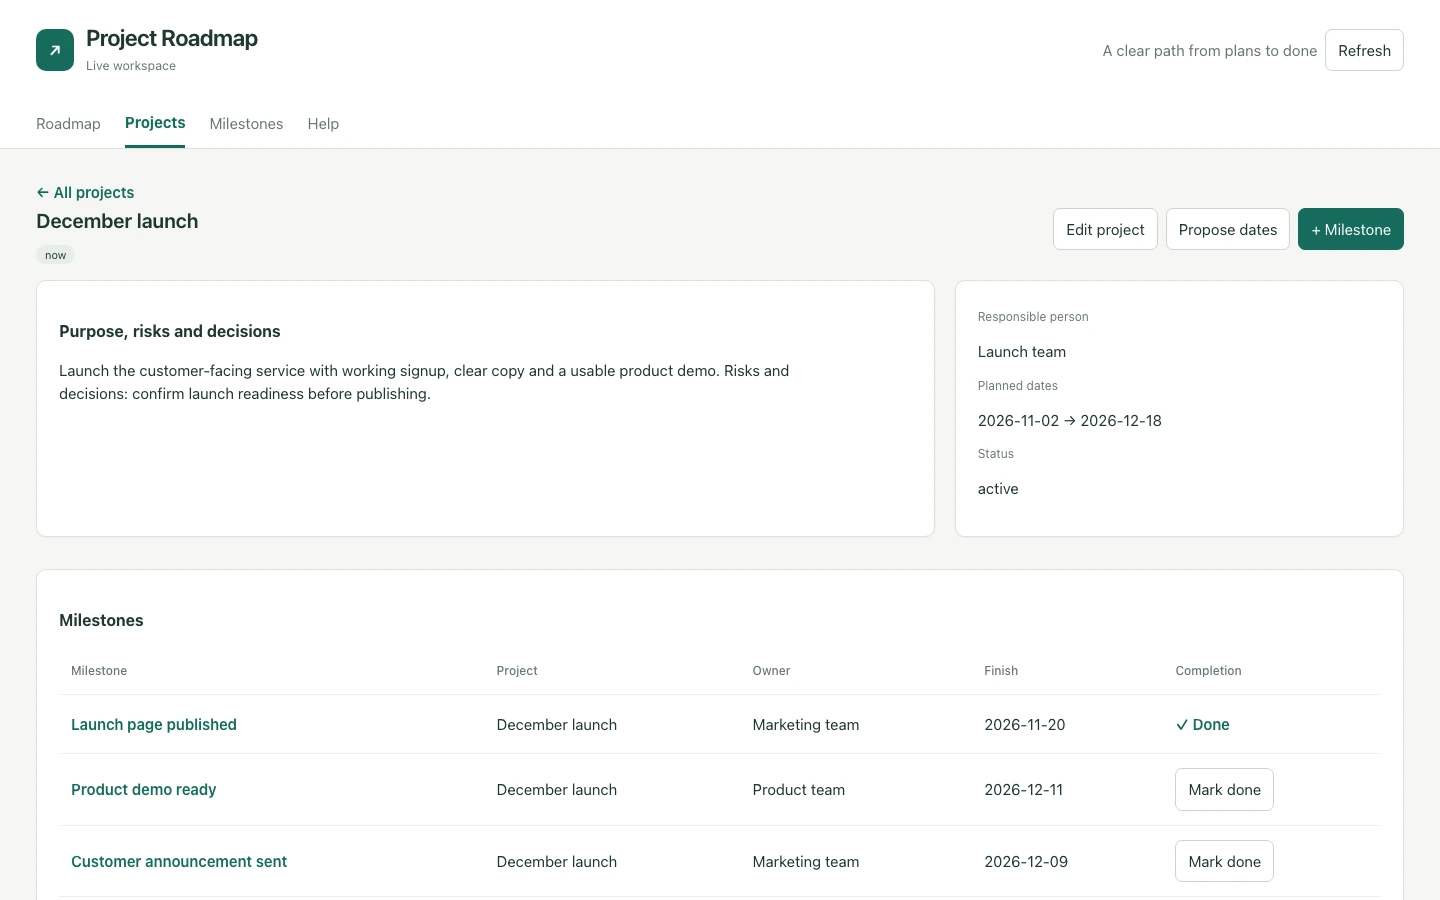
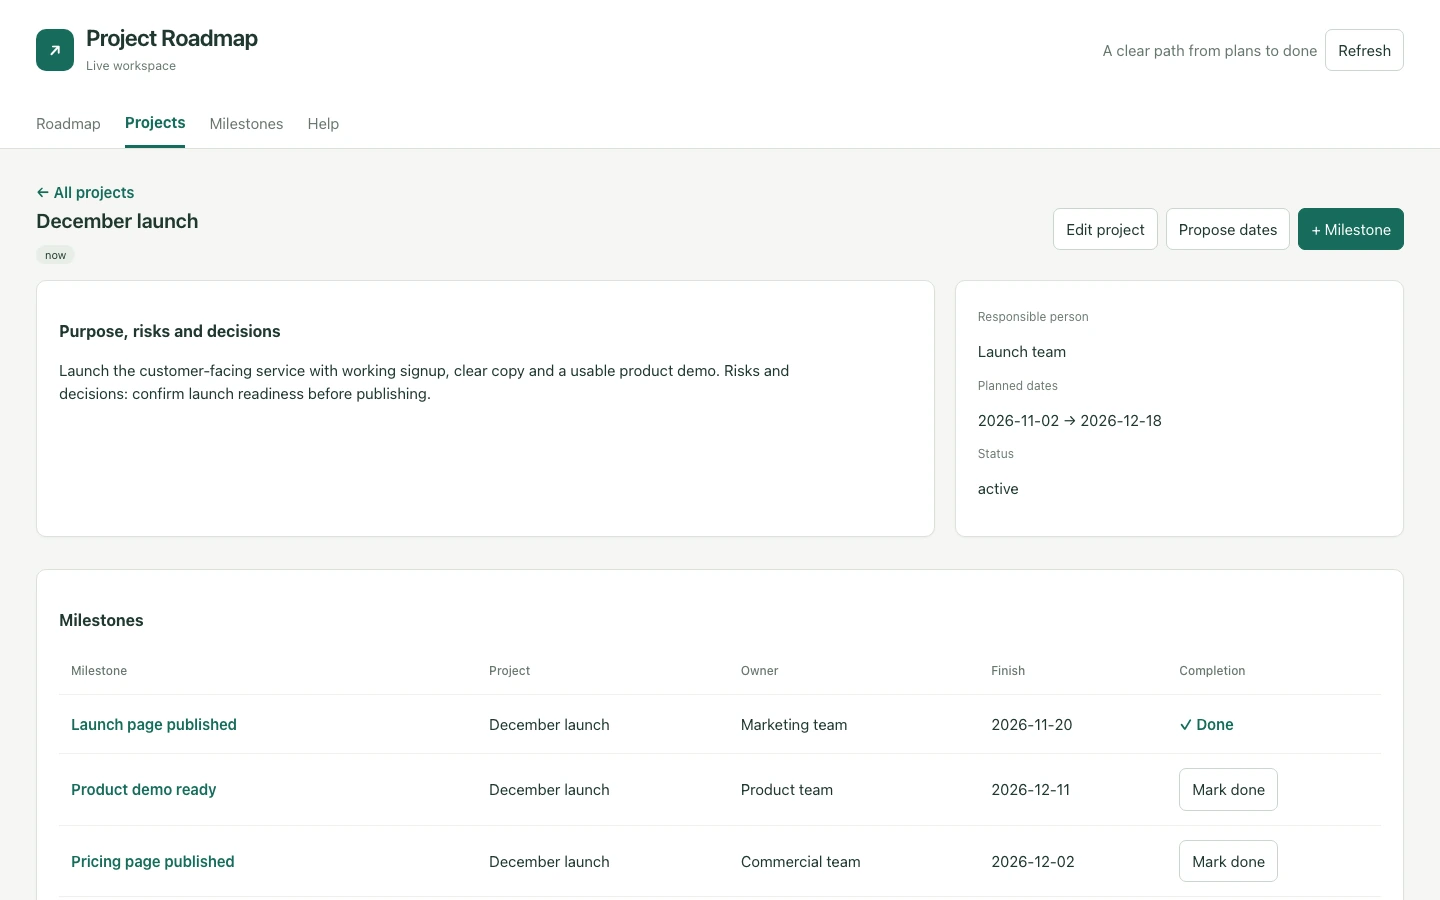
fix(project-roadmap): restore scrolling and clarify planning horizons

diff --git a/templates/busa-project-roadmap/content/busa-project-roadmap-app/app/js/app.js b/templates/busa-project-roadmap/content/busa-project-roadmap-app/app/js/app.js
@@ -29,6 +29,10 @@ const state = {
   busy: false,
 };
 const title = (r) => r.fields.title || "Untitled";
+const chronological = (a, b) =>
+  (a.fields["start-date"] || "9999-12-31").localeCompare(
+    b.fields["start-date"] || "9999-12-31",
+  ) || title(a).localeCompare(title(b));
 const projectOf = (r) =>
   state.projects.find((p) => refs(r.fields.project).includes(p.id));
 const issues = () => [
@@ -43,12 +47,12 @@ async function load() {
     ["projects", "milestones"].map((key) => provider.page(key)),
   );
   ["projects", "milestones"].forEach((key, i) => {
-    state[key] = pages[i].records;
+    state[key] = pages[i].records.toSorted(chronological);
     state.cursors[key] = pages[i].nextCursor;
   });
 }
 function shell(content) {
-  root.innerHTML = `<header><div class="top"><div class="brand"><span class="mark" aria-hidden="true">↗</span><div><h1>Project Roadmap</h1><small>${e(provider.name)}</small></div></div><div class="actions"><span class="muted">A clear path from plans to done</span><button data-action="refresh" ${state.busy ? "disabled" : ""}>Refresh</button></div></div><nav aria-label="Sections">${["roadmap", "projects", "milestones", "help"].map((screen) => `<button data-screen="${screen}" class="${state.screen === screen ? "active" : ""}" ${state.screen === screen ? 'aria-current="page"' : ""}>${screen[0].toUpperCase() + screen.slice(1)}</button>`).join("")}</nav></header><main>${content}<p class="budget">${state.projects.length} projects · ${state.milestones.length} milestones loaded. Filters and dependency checks apply to loaded records.</p>${Object.entries(
+  root.innerHTML = `<header><div class="top"><div class="brand"><span class="mark" aria-hidden="true">↗</span><div><h1>Project Roadmap</h1><small>${e(provider.name)}</small></div></div><div class="actions"><span class="muted">A clear path from plans to done</span><button data-action="refresh" ${state.busy ? "disabled" : ""}>Refresh</button></div></div><nav aria-label="Sections">${["roadmap", "projects", "milestones", "help"].map((screen) => `<button data-screen="${screen}" class="${state.screen === screen ? "active" : ""}" ${state.screen === screen ? 'aria-current="page"' : ""}>${screen[0].toUpperCase() + screen.slice(1)}</button>`).join("")}</nav></header><main>${content}<p class="budget">${state.projects.length} projects · ${state.milestones.length} milestones loaded.</p>${Object.entries(
     state.cursors,
   )
     .filter(([, cursor]) => cursor)
@@ -92,10 +96,7 @@ function roadmap() {
     );
   const conflicts = issues().filter((i) => i.kind === "conflict");
   return (
-    intro(
-      "See what’s coming",
-      "Projects and milestones, across weeks and quarters.",
-    ) +
+    intro("Roadmap", "Projects and milestones, across weeks and quarters.") +
     `<div class="toolbar"><div class="actions"><label for="lane" class="sr-only">Roadmap horizon</label><select id="lane"><option value="all">Now, Next & Later</option>${["now", "next", "later"].map((l) => `<option ${state.lane === l ? "selected" : ""} value="${l}">${l[0].toUpperCase() + l.slice(1)}</option>`).join("")}</select></div><div class="actions"><button data-shift="-84" aria-label="Previous twelve weeks">←</button><button data-action="today">Today</button><button data-shift="84" aria-label="Next twelve weeks">→</button><small>${e(first)} — ${addDays(first, 83)}</small></div></div>${conflicts.length ? `<div class="warning"><b>${conflicts.length} dependency conflict${conflicts.length === 1 ? "" : "s"} need attention.</b> Review the impact before moving dates. <button class="text-button" data-action="conflicts">View conflicts →</button></div>` : ""}<div class="timeline"><div class="timeline-inner"><div class="timeline-row"><div class="row-label"><b>Projects & milestones</b></div><div class="week-grid">${columns.map((w) => `<span><b>${e(w.quarter)}</b>${e(w.label)}<br>${new Intl.DateTimeFormat("en", { month: "short", day: "numeric", timeZone: "UTC" }).format(date(w.day))}</span>`).join("")}</div></div>${
       visible
         .map(
@@ -139,7 +140,16 @@ function projectDetail() {
   return `<button class="text-button" data-action="back">← All projects</button><div class="intro"><div><h2>${e(title(p))}</h2><span class="lane">${e(p.fields.lane || "later")}</span></div><div class="actions"><button data-edit="${e(p.id)}" data-kind="projects">Edit project</button><button data-schedule="${e(p.id)}" data-kind="projects">Propose dates</button><button class="primary" data-new="milestones">+ Milestone</button></div></div><div class="project-detail"><div class="card"><h3>Purpose, risks and decisions</h3><p class="definition">${e(p.fields.brief || "Add the purpose of this project and any important risks or decisions.")}</p></div><div class="card"><p class="detail-label">Responsible person</p><p>${e(p.fields.owner || "Unassigned")}</p><p class="detail-label">Planned dates</p><p>${e(p.fields["start-date"] || "Not set")} → ${e(p.fields["end-date"] || "Not set")}</p><p class="detail-label">Status</p><p>${e(p.fields.status || "planned")}</p></div></div><div class="card"><h3>Milestones</h3>${milestoneTable(state.milestones.filter((m) => refs(m.fields.project).includes(p.id)))}</div>`;
 }
 function help() {
-  return `<div class="card help"><h2>A small model for clear plans</h2><h3>Projects</h3><p>An overall effort, such as a launch. The brief explains its purpose, important risks and decisions. Use Now, Next or Later to show priority; dates show the planned calendar window.</p><h3>Milestones</h3><p>A concrete outcome within a project. “What done means” describes the finished result. The owner is responsible for progress; anyone with edit access can mark it Done. There is no acceptance step. If work needs revisiting, reopen it by clearing Done in Edit milestone.</p><h3>Dependencies and date proposals</h3><p>A dependency must finish before the dependent work starts. Amber bars flag conflicts among loaded records. Proposed dates preserve the task’s duration and await review in Busa; they do not move the live schedule immediately.</p><h3>Access and loading</h3><p>The app uses your existing Busa permissions. A normal edit is saved or submitted for review according to your access. Each load reads at most 50 records per table. Load more to include additional records in filters and dependency checks.</p></div>`;
+  return `<div class="card help"><h2>Using Project Roadmap</h2>
+  <h3>Projects</h3><p>A project is an overall effort, such as a launch. Its brief explains the purpose, important risks and decisions. Milestones describe the concrete outcomes within it.</p>
+  <h3>Now — current work</h3><p>Use Now for projects the team is actively working on in the current planning cycle. Keep this group small enough that the people assigned can make progress. <b>Example:</b> December launch is Now while the team is preparing the launch.</p>
+  <h3>Next — the next agreed priorities</h3><p>Use Next for projects you intend to start when the team has capacity and the prerequisites are ready. The work is a priority, but it is not the team's current focus. <b>Example:</b> Customer portal is Next while launch preparation takes priority. Projects can overlap when there is enough capacity.</p>
+  <h3>Later — future work without a current commitment</h3><p>Use Later for work worth keeping on the roadmap that the team has not committed to starting soon. Dates can stay empty until the plan is clearer. <b>Example:</b> Operations refresh is Later while its priority and timing are still being decided.</p>
+  <h3>When to move a project</h3><p>Move Next to Now when the team is ready to begin. When current work finishes, mark the project Done and choose the next ready project. Move work to Later if it loses priority. Review these choices together when you review the roadmap.</p>
+  <p><b>Priority and dates are separate.</b> Now / Next / Later describes focus and planning confidence; start and finish dates place the work in specific weeks and quarters. The labels have no fixed number of weeks. Changing a label does not change dates or move a timeline bar.</p>
+  <h3>Milestones</h3><p>A milestone is a concrete outcome within a project. “What done means” describes the finished result. The owner is responsible for progress; anyone with edit access can mark it Done. There is no acceptance step. Reopen it by clearing Done in Edit milestone if work needs revisiting.</p>
+  <h3>Dependencies and date proposals</h3><p>A dependency must finish before the dependent work starts. Amber bars flag conflicts among loaded records. Suggested dates preserve the work's duration. Submit a date proposal for review in Busa; the current schedule stays in place until approved.</p>
+  <h3>Access and loading</h3><p>The app uses your existing Busa permissions. A normal edit is saved or submitted for review according to your access. Each load reads at most 50 records per table. Use Load more to include additional records.</p></div>`;
 }
 function showDialog(html) {
   dialog.innerHTML = html;

diff --git a/templates/busa-project-roadmap/content/busa-project-roadmap-app/app/js/demo-data.js b/templates/busa-project-roadmap/content/busa-project-roadmap-app/app/js/demo-data.js
@@ -99,6 +99,150 @@ export const sampleRecords = {
         "owner": "Operations team",
         "done": false
       }
+    },
+    {
+      "key": "pricing-ready",
+      "fields": {
+        "title": "Pricing page published",
+        "project": "december-launch",
+        "description": "The agreed prices and billing terms are published.",
+        "owner": "Commercial team",
+        "start-date": "2026-12-01",
+        "end-date": "2026-12-02",
+        "done": false
+      }
+    },
+    {
+      "key": "support-guide",
+      "fields": {
+        "title": "Support guide ready",
+        "project": "december-launch",
+        "description": "Support can answer the launch questions using a shared guide.",
+        "owner": "Support team",
+        "start-date": "2026-12-01",
+        "end-date": "2026-12-03",
+        "done": false
+      }
+    },
+    {
+      "key": "signup-check",
+      "fields": {
+        "title": "Signup flow verified",
+        "project": "december-launch",
+        "description": "A new customer can register and reach the product.",
+        "owner": "Product team",
+        "start-date": "2026-12-02",
+        "end-date": "2026-12-04",
+        "done": false
+      }
+    },
+    {
+      "key": "launch-emails",
+      "fields": {
+        "title": "Launch emails prepared",
+        "project": "december-launch",
+        "description": "Launch emails have final copy and working links.",
+        "owner": "Marketing team",
+        "start-date": "2026-12-03",
+        "end-date": "2026-12-07",
+        "done": false
+      }
+    },
+    {
+      "key": "billing-check",
+      "fields": {
+        "title": "Billing flow verified",
+        "project": "december-launch",
+        "description": "A test purchase creates the correct invoice and subscription.",
+        "owner": "Finance team",
+        "start-date": "2026-12-04",
+        "end-date": "2026-12-08",
+        "done": false
+      }
+    },
+    {
+      "key": "analytics-ready",
+      "fields": {
+        "title": "Launch reporting ready",
+        "project": "december-launch",
+        "description": "The team can see signups, purchases and support requests.",
+        "owner": "Operations team",
+        "start-date": "2026-12-07",
+        "end-date": "2026-12-09",
+        "done": false
+      }
+    },
+    {
+      "key": "training-ready",
+      "fields": {
+        "title": "Team training completed",
+        "project": "december-launch",
+        "description": "Customer-facing staff can demonstrate the launch workflow.",
+        "owner": "Support team",
+        "start-date": "2026-12-08",
+        "end-date": "2026-12-10",
+        "done": false
+      }
+    },
+    {
+      "key": "help-published",
+      "fields": {
+        "title": "Help articles published",
+        "project": "december-launch",
+        "description": "The essential setup and troubleshooting articles are available.",
+        "owner": "Support team",
+        "start-date": "2026-12-09",
+        "end-date": "2026-12-11",
+        "done": false
+      }
+    },
+    {
+      "key": "rollback-ready",
+      "fields": {
+        "title": "Rollback plan rehearsed",
+        "project": "december-launch",
+        "description": "The release team has rehearsed recovery and knows the decision owner.",
+        "owner": "Operations team",
+        "start-date": "2026-12-10",
+        "end-date": "2026-12-14",
+        "done": false
+      }
+    },
+    {
+      "key": "release-check",
+      "fields": {
+        "title": "Release checklist completed",
+        "project": "december-launch",
+        "description": "The release checklist has evidence for every required item.",
+        "owner": "Product team",
+        "start-date": "2026-12-11",
+        "end-date": "2026-12-15",
+        "done": false
+      }
+    },
+    {
+      "key": "launch-signoff",
+      "fields": {
+        "title": "Launch readiness confirmed",
+        "project": "december-launch",
+        "description": "The team has checked all agreed readiness criteria.",
+        "owner": "Launch team",
+        "start-date": "2026-12-14",
+        "end-date": "2026-12-16",
+        "done": false
+      }
+    },
+    {
+      "key": "launch-results",
+      "fields": {
+        "title": "Launch results reviewed",
+        "project": "december-launch",
+        "description": "The team has reviewed the first results and recorded follow-up work.",
+        "owner": "Launch team",
+        "start-date": "2026-12-17",
+        "end-date": "2026-12-18",
+        "done": false
+      }
     }
   ]
 };

diff --git a/templates/busa-project-roadmap/content/busa-project-roadmap-app/app/styles.css b/templates/busa-project-roadmap/content/busa-project-roadmap-app/app/styles.css
@@ -44,7 +44,7 @@
    * unfinished; anything slower than this feels laggy in a dense tool. */
   --ease: 130ms cubic-bezier(0.2, 0, 0.2, 1);
 
-  color-scheme: light dark;
+  color-scheme: light;
 
   /* One scale. Do not introduce sizes between these steps. */
   --text-xs: 11px;
@@ -70,45 +70,6 @@
   -webkit-font-smoothing: antialiased;
 }
 
-/* Dark is a token override and nothing else -- not one rule below is duplicated
- * for it. That only works because every rule reads from the block above, which
- * is the real argument for keeping raw colors out of the rules.
- * The surfaces are near-black rather than pure black: at #000 the hairlines
- * have to get brighter to stay visible, and bright hairlines read as noise. */
-@media (prefers-color-scheme: dark) {
-  :root {
-    /* The light accent is too dark to sit on a dark surface, so it lifts. */
-    --accent: #3fae95;
-    --accent-strong: #4ec0a6;
-    --accent-contrast: #0b1512;
-
-    --canvas: #0e1013;
-    --surface: #16191d;
-    --surface-soft: #1e2228;
-    --surface-hover: #1a1e23;
-
-    --ink: #e8eaed;
-    --ink-soft: #b4bac3;
-    --muted: #868d98;
-    --line: #262a30;
-    --line-strong: #363c45;
-
-    --positive: #45c07f;
-    --warning: #d9a441;
-    --danger: #f2685c;
-
-    --shadow-card: 0 1px 2px rgba(0, 0, 0, 0.4);
-    --shadow-modal: 0 24px 60px rgba(0, 0, 0, 0.55);
-
-    /* A 9% wash is invisible over a dark surface, and 76% toward a dark --ink
-     * would make the text unreadable -- both flip direction here. */
-    --badge-wash: 18%;
-    --badge-ink: 62%;
-
-    --surface-blur: rgba(22, 25, 29, 0.92);
-    --scrim: rgba(0, 0, 0, 0.6);
-  }
-}
 
 /* ── Base ────────────────────────────────────────────────────────────── */
 * {
@@ -118,9 +79,8 @@ html,
 body {
   width: 100%;
   min-width: 0;
-  height: 100%;
+  min-height: 100%;
   margin: 0;
-  overflow: hidden;
 }
 button,
 input,

diff --git a/templates/busa-project-roadmap/content/busa-project-roadmap-app/app/roadmap.css b/templates/busa-project-roadmap/content/busa-project-roadmap-app/app/roadmap.css
@@ -1,3 +1,9 @@
+html {
+  overflow-y: auto;
+}
+body {
+  overflow: visible;
+}
 * {
   box-sizing: border-box;
 }
@@ -288,6 +294,8 @@ main {
   color: #6c7b70;
 }
 dialog {
+  background: #ffffff;
+  overflow-y: auto;
   border: 1px solid #d1d9cf;
   border-radius: 12px;
   width: min(620px, calc(100% - 30px));
@@ -296,7 +304,7 @@ dialog {
   color: #20372f;
 }
 dialog::backdrop {
-  background: #13291d66;
+  background: #13291d38;
 }
 dialog header {
   padding: 0 0 15px;

diff --git a/templates/busa-project-roadmap/SKILL.md b/templates/busa-project-roadmap/SKILL.md
@@ -37,6 +37,11 @@ editor. Horizon (`now`, `next`, `later`) expresses priority; start and finish da
 place the plan on the calendar. Status is `planned`, `active`, `paused` or `done`.
 Projects may depend on other projects.
 
+Use **Now** for current active work, **Next** for agreed next priorities awaiting
+capacity or prerequisites, and **Later** for worthwhile future work without a near-term
+commitment. Move Next to Now when the team is ready to begin. These horizons do not
+represent fixed weeks or quarters; changing a horizon never changes planned dates.
+
 **Milestones** are concrete outcomes within a project. A milestone must have a name
 and project. `description` explains what done means, with enough detail to identify
 the finished result. `owner` names the responsible person or team. Start and finish
@@ -72,7 +77,7 @@ The AirApp offers Roadmap, Projects, Milestones and Help. Its twelve-week timeli
 shows ISO week years and quarters. Undated work stays visibly unscheduled. Read
 errors are shown; live mode never falls back to demo data.
 
-Installation includes three fictional projects and five milestones. One dependency
+Installation includes three fictional projects and seventeen milestones. One dependency
 conflict illustrates the review flow. Replace samples only when explicitly asked;
 do not delete somebody else's records while adding a real plan.
 
